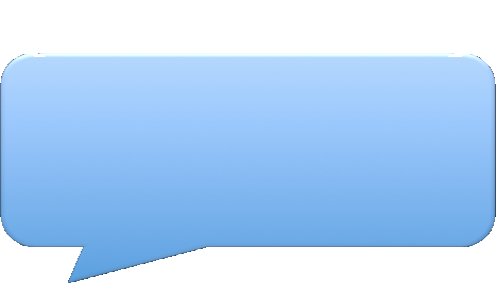
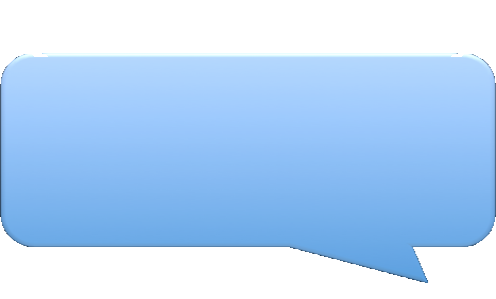
Chat Bubbles
Fixed chat bubble directions

Changed region(s): [[0.121, 0.8127, 0.4234, 0.9632], [0.5746, 0.8127, 0.877, 0.9632], [0.998, 0.2709, 1.0, 0.7525]]

diff --git a/SOL.py b/SOL.py
@@ -84,9 +84,9 @@ displayPartners = visual.TextStim(win, text = 'Display Chat Partners?\n      Yes
 selectPartnerText = visual.TextStim(win, text = 'Please select your chat partner', pos = (0,.7), height = 0.07, color = 'Black', wrapWidth = 1.3)
 
 if str.lower(str(expInfo["Sex"])) == "m" or str.lower(str(expInfo["Sex"])) == "male":
-    sex = "female"
-if str.lower(str(expInfo["Sex"])) == "f" or str.lower(str(expInfo["Sex"])) == "female":
     sex = "male"
+if str.lower(str(expInfo["Sex"])) == "f" or str.lower(str(expInfo["Sex"])) == "female":
+    sex = "female"
 
 
 global WhichSelected
@@ -291,7 +291,7 @@ def Share(questionNumber):
         greenBubbleLeft.draw()
         leftBubbleText.draw()
         win.flip()
-        HowLongLearnDelay = random.uniform(1,3)
+        HowLongLearnDelay = random.uniform(1500,3)
         time.sleep(HowLongLearnDelay)
         
     if "m" in key_press:
@@ -307,7 +307,7 @@ def Share(questionNumber):
         greenBubbleLeft.draw()
         leftBubbleText.draw()
         win.flip()
-        HowLongLearnDelay = random.uniform(1,3)
+        HowLongLearnDelay = random.uniform(1500,3)
         time.sleep(HowLongLearnDelay)
 
     messageRead.draw()
@@ -567,9 +567,6 @@ while (trialNumber < 5): #195
     
     trialNumber = trialNumber + 1 
     questionNumber = questionNumber + 2
-
-
-
 
 
 
